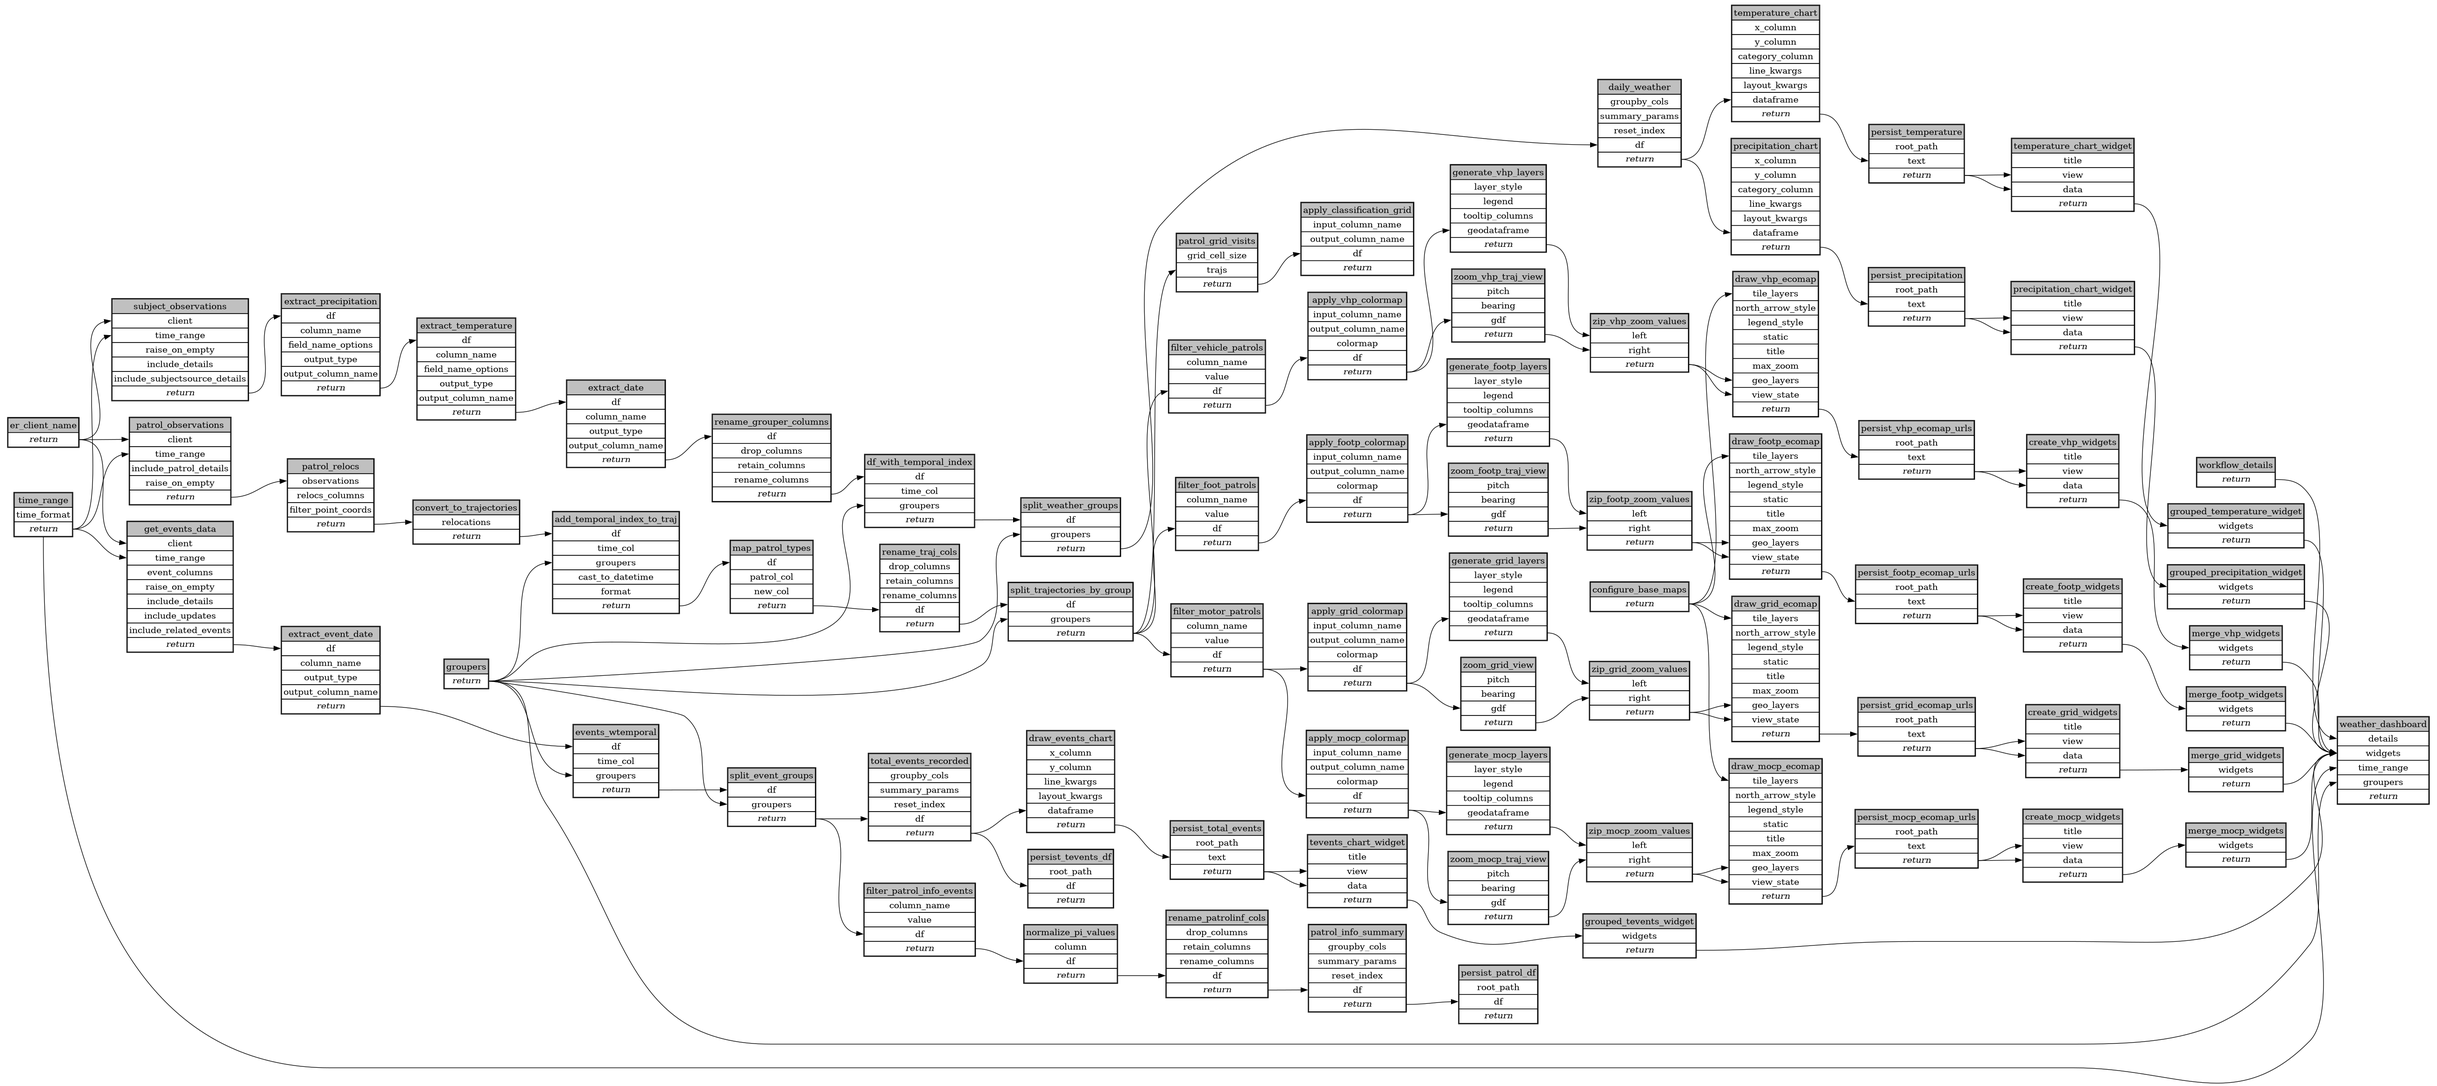
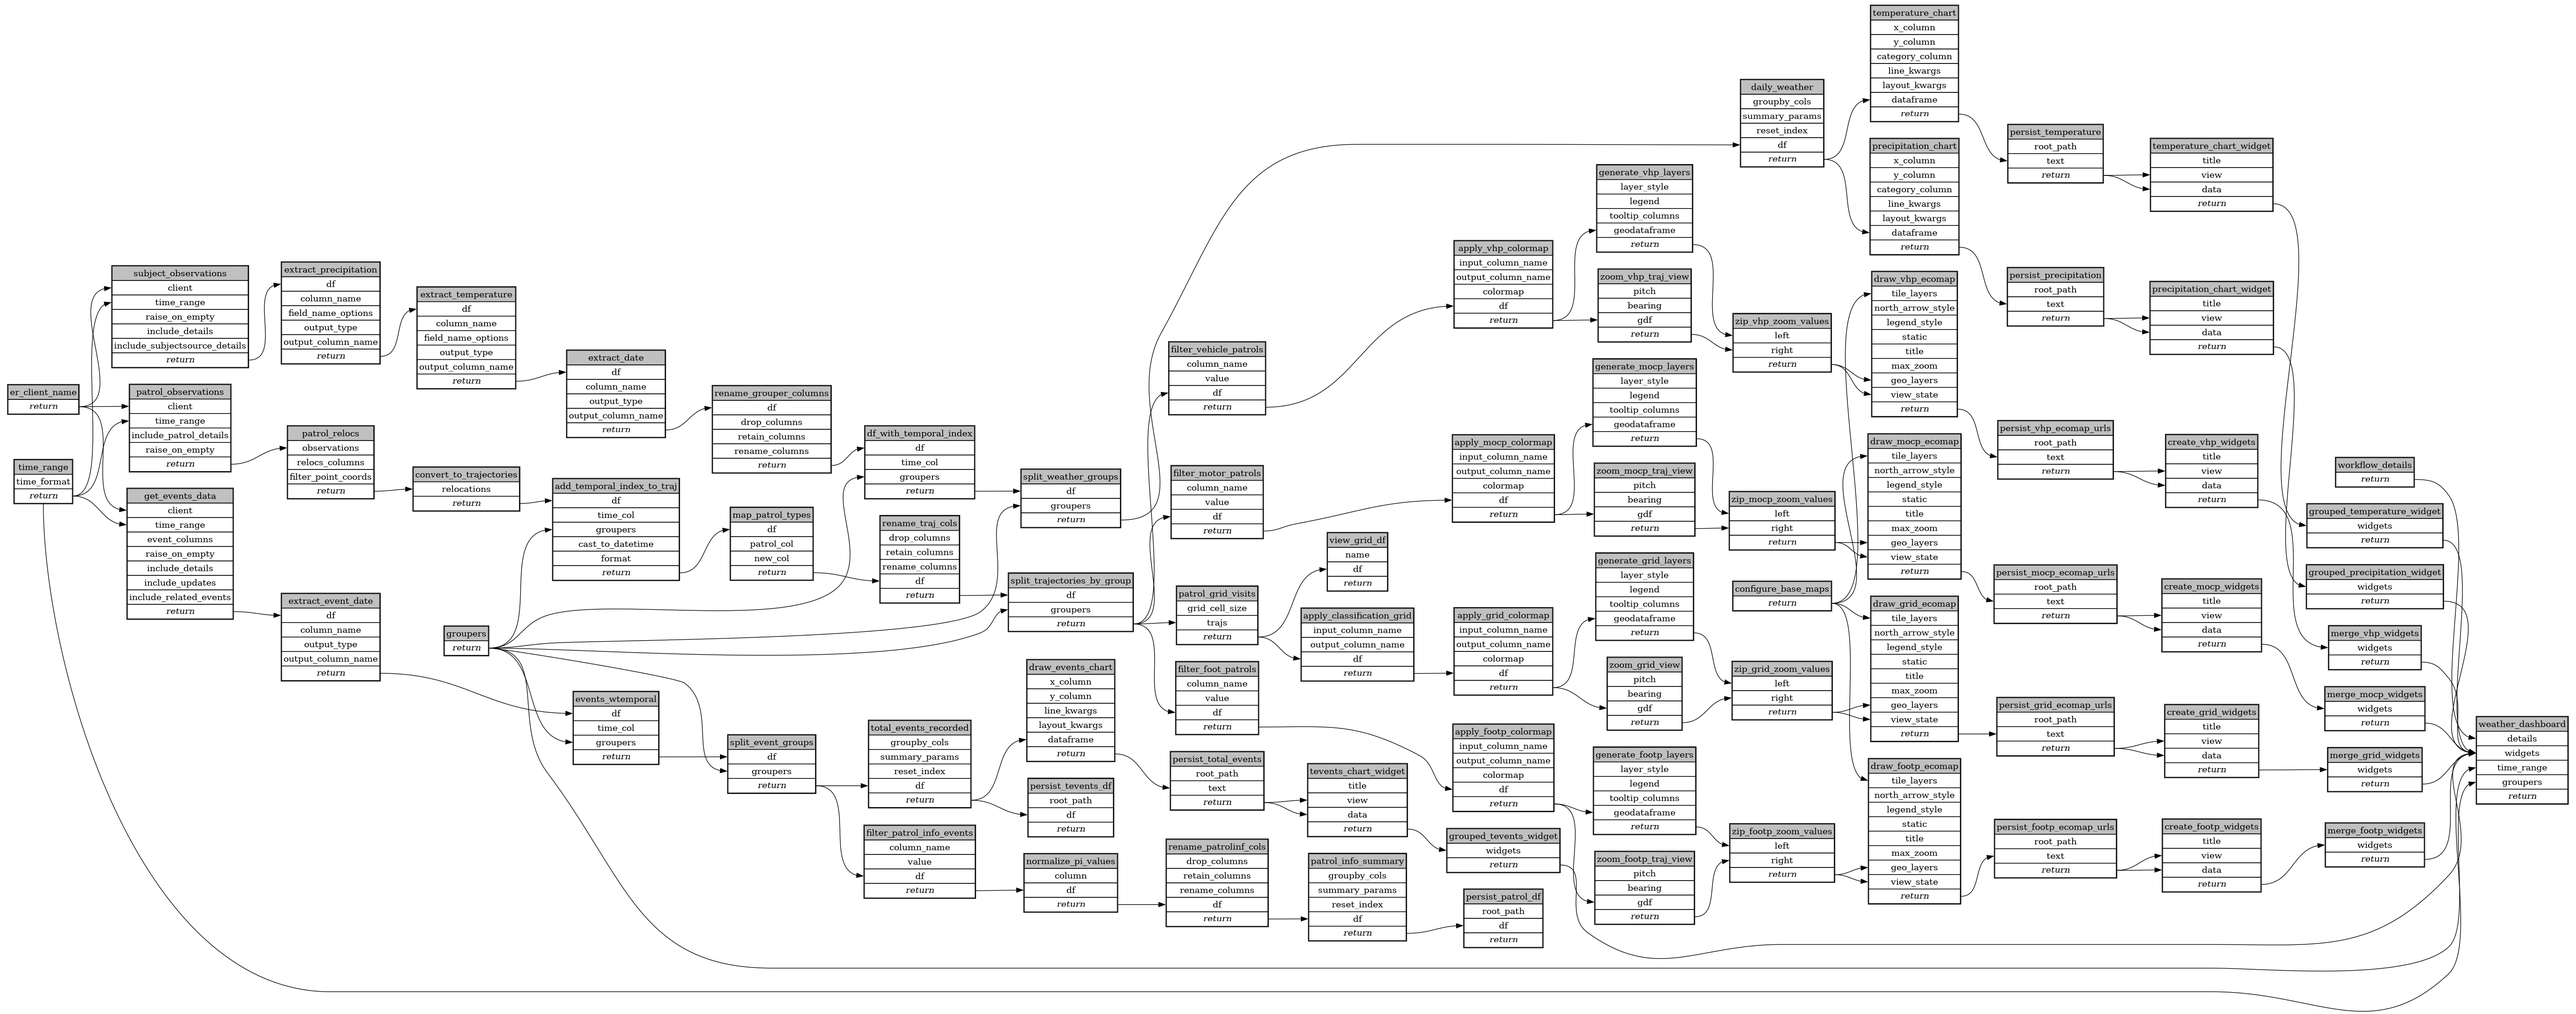
fix patrol visit grid cell df

Changed region(s): [[0.0, 0.0, 0.9992, 0.9867], [0.8743, 0.9867, 0.9368, 1.0]]

diff --git a/workflows/customized_report/ecoscope-workflows-customized-report-workflow/ecoscope_workflows_customized_report_workflow/dags/run_async.py b/workflows/customized_report/ecoscope-workflows-customized-report-workflow/ecoscope_workflows_customized_report_workflow/dags/run_async.py
@@ -52,6 +52,7 @@ from ecoscope_workflows_ext_mnc.tasks import (
     create_patrol_coverage_grid,
     create_view_state_from_gdf,
     filter_by_value,
+    view_df,
     zip_grouped_by_key,
 )
 
@@ -128,8 +129,9 @@ def main(params: Params):
         "create_mocp_widgets": ["persist_mocp_ecomap_urls"],
         "merge_mocp_widgets": ["create_mocp_widgets"],
         "patrol_grid_visits": ["split_trajectories_by_group"],
+        "view_grid_df": ["patrol_grid_visits"],
         "apply_classification_grid": ["patrol_grid_visits"],
-        "apply_grid_colormap": ["filter_motor_patrols"],
+        "apply_grid_colormap": ["apply_classification_grid"],
         "generate_grid_layers": ["apply_grid_colormap"],
         "zoom_grid_view": ["apply_grid_colormap"],
         "zip_grid_zoom_values": ["generate_grid_layers", "zoom_grid_view"],
@@ -1220,6 +1222,20 @@ def main(params: Params):
                 "argvalues": DependsOn("split_trajectories_by_group"),
             },
         ),
+        "view_grid_df": Node(
+            async_task=view_df.validate()
+            .handle_errors(task_instance_id="view_grid_df")
+            .set_executor("lithops"),
+            partial={
+                "name": "Patrol Grid gdf",
+            }
+            | (params_dict.get("view_grid_df") or {}),
+            method="mapvalues",
+            kwargs={
+                "argnames": ["df"],
+                "argvalues": DependsOn("patrol_grid_visits"),
+            },
+        ),
         "apply_classification_grid": Node(
             async_task=apply_classification.validate()
             .handle_errors(task_instance_id="apply_classification_grid")
@@ -1248,7 +1264,7 @@ def main(params: Params):
             method="mapvalues",
             kwargs={
                 "argnames": ["df"],
-                "argvalues": DependsOn("filter_motor_patrols"),
+                "argvalues": DependsOn("apply_classification_grid"),
             },
         ),
         "generate_grid_layers": Node(

diff --git a/workflows/customized_report/ecoscope-workflows-customized-report-workflow/ecoscope_workflows_customized_report_workflow/dags/run_async_mock_io.py b/workflows/customized_report/ecoscope-workflows-customized-report-workflow/ecoscope_workflows_customized_report_workflow/dags/run_async_mock_io.py
@@ -94,6 +94,7 @@ from ecoscope_workflows_ext_mnc.tasks import (
     create_patrol_coverage_grid,
     create_view_state_from_gdf,
     filter_by_value,
+    view_df,
     zip_grouped_by_key,
 )
 
@@ -172,8 +173,9 @@ def main(params: Params):
         "create_mocp_widgets": ["persist_mocp_ecomap_urls"],
         "merge_mocp_widgets": ["create_mocp_widgets"],
         "patrol_grid_visits": ["split_trajectories_by_group"],
+        "view_grid_df": ["patrol_grid_visits"],
         "apply_classification_grid": ["patrol_grid_visits"],
-        "apply_grid_colormap": ["filter_motor_patrols"],
+        "apply_grid_colormap": ["apply_classification_grid"],
         "generate_grid_layers": ["apply_grid_colormap"],
         "zoom_grid_view": ["apply_grid_colormap"],
         "zip_grid_zoom_values": ["generate_grid_layers", "zoom_grid_view"],
@@ -1264,6 +1266,20 @@ def main(params: Params):
                 "argvalues": DependsOn("split_trajectories_by_group"),
             },
         ),
+        "view_grid_df": Node(
+            async_task=view_df.validate()
+            .handle_errors(task_instance_id="view_grid_df")
+            .set_executor("lithops"),
+            partial={
+                "name": "Patrol Grid gdf",
+            }
+            | (params_dict.get("view_grid_df") or {}),
+            method="mapvalues",
+            kwargs={
+                "argnames": ["df"],
+                "argvalues": DependsOn("patrol_grid_visits"),
+            },
+        ),
         "apply_classification_grid": Node(
             async_task=apply_classification.validate()
             .handle_errors(task_instance_id="apply_classification_grid")
@@ -1292,7 +1308,7 @@ def main(params: Params):
             method="mapvalues",
             kwargs={
                 "argnames": ["df"],
-                "argvalues": DependsOn("filter_motor_patrols"),
+                "argvalues": DependsOn("apply_classification_grid"),
             },
         ),
         "generate_grid_layers": Node(

diff --git a/workflows/customized_report/ecoscope-workflows-customized-report-workflow/ecoscope_workflows_customized_report_workflow/dags/run_sequential_mock_io.py b/workflows/customized_report/ecoscope-workflows-customized-report-workflow/ecoscope_workflows_customized_report_workflow/dags/run_sequential_mock_io.py
@@ -93,6 +93,7 @@ from ecoscope_workflows_ext_mnc.tasks import (
     create_patrol_coverage_grid,
     create_view_state_from_gdf,
     filter_by_value,
+    view_df,
     zip_grouped_by_key,
 )
 
@@ -1011,6 +1012,13 @@ def main(params: Params):
         .mapvalues(argnames=["trajs"], argvalues=split_trajectories_by_group)
     )
 
+    view_grid_df = (
+        view_df.validate()
+        .handle_errors(task_instance_id="view_grid_df")
+        .partial(name="Patrol Grid gdf", **(params_dict.get("view_grid_df") or {}))
+        .mapvalues(argnames=["df"], argvalues=patrol_grid_visits)
+    )
+
     apply_classification_grid = (
         apply_classification.validate()
         .handle_errors(task_instance_id="apply_classification_grid")
@@ -1031,7 +1039,7 @@ def main(params: Params):
             colormap="Wistia",
             **(params_dict.get("apply_grid_colormap") or {}),
         )
-        .mapvalues(argnames=["df"], argvalues=filter_motor_patrols)
+        .mapvalues(argnames=["df"], argvalues=apply_classification_grid)
     )
 
     generate_grid_layers = (

diff --git a/workflows/customized_report/ecoscope-workflows-customized-report-workflow/ecoscope_workflows_customized_report_workflow/dags/run_sequential.py b/workflows/customized_report/ecoscope-workflows-customized-report-workflow/ecoscope_workflows_customized_report_workflow/dags/run_sequential.py
@@ -51,6 +51,7 @@ from ecoscope_workflows_ext_mnc.tasks import (
     create_patrol_coverage_grid,
     create_view_state_from_gdf,
     filter_by_value,
+    view_df,
     zip_grouped_by_key,
 )
 
@@ -967,6 +968,13 @@ def main(params: Params):
         .mapvalues(argnames=["trajs"], argvalues=split_trajectories_by_group)
     )
 
+    view_grid_df = (
+        view_df.validate()
+        .handle_errors(task_instance_id="view_grid_df")
+        .partial(name="Patrol Grid gdf", **(params_dict.get("view_grid_df") or {}))
+        .mapvalues(argnames=["df"], argvalues=patrol_grid_visits)
+    )
+
     apply_classification_grid = (
         apply_classification.validate()
         .handle_errors(task_instance_id="apply_classification_grid")
@@ -987,7 +995,7 @@ def main(params: Params):
             colormap="Wistia",
             **(params_dict.get("apply_grid_colormap") or {}),
         )
-        .mapvalues(argnames=["df"], argvalues=filter_motor_patrols)
+        .mapvalues(argnames=["df"], argvalues=apply_classification_grid)
     )
 
     generate_grid_layers = (

diff --git a/workflows/customized_report/ecoscope-workflows-customized-report-workflow/ecoscope_workflows_customized_report_workflow/formdata.py b/workflows/customized_report/ecoscope-workflows-customized-report-workflow/ecoscope_workflows_customized_report_workflow/formdata.py
@@ -4,7 +4,7 @@
 from __future__ import annotations
 
 from enum import Enum
-from typing import List, Literal, Optional, Union
+from typing import Any, List, Literal, Optional, Union
 
 from pydantic import (
     AwareDatetime,
@@ -306,6 +306,13 @@ class PatrolObservations(BaseModel):
     )
 
 
+class ViewGridDf(BaseModel):
+    model_config = ConfigDict(
+        extra="forbid",
+    )
+    gdf: Any = Field(..., description="A GeoDataFrame to inspect", title="Gdf")
+
+
 class PersistPatrolDf(BaseModel):
     model_config = ConfigDict(
         extra="forbid",
@@ -487,6 +494,9 @@ class FormData(BaseModel):
     )
     convert_to_trajectories: Optional[ConvertToTrajectories] = Field(
         None, title="Convert Relocations to Trajectories"
+    )
+    view_grid_df: Optional[ViewGridDf] = Field(
+        None, title="view patrol coverage grid df"
     )
     apply_classification_grid: Optional[ApplyClassificationGrid] = Field(
         None, title="Apply bin classification on grids"

diff --git a/workflows/customized_report/ecoscope-workflows-customized-report-workflow/ecoscope_workflows_customized_report_workflow/params.py b/workflows/customized_report/ecoscope-workflows-customized-report-workflow/ecoscope_workflows_customized_report_workflow/params.py
@@ -4,7 +4,7 @@
 from __future__ import annotations
 
 from enum import Enum
-from typing import List, Literal, Optional, Union
+from typing import Any, List, Literal, Optional, Union
 
 from pydantic import (
     AwareDatetime,
@@ -306,6 +306,13 @@ class PatrolObservations(BaseModel):
     )
 
 
+class ViewGridDf(BaseModel):
+    model_config = ConfigDict(
+        extra="forbid",
+    )
+    gdf: Any = Field(..., description="A GeoDataFrame to inspect", title="Gdf")
+
+
 class PersistPatrolDf(BaseModel):
     model_config = ConfigDict(
         extra="forbid",
@@ -487,6 +494,9 @@ class Params(BaseModel):
     )
     convert_to_trajectories: Optional[ConvertToTrajectories] = Field(
         None, title="Convert Relocations to Trajectories"
+    )
+    view_grid_df: Optional[ViewGridDf] = Field(
+        None, title="view patrol coverage grid df"
     )
     apply_classification_grid: Optional[ApplyClassificationGrid] = Field(
         None, title="Apply bin classification on grids"

diff --git a/workflows/customized_report/ecoscope-workflows-customized-report-workflow/ecoscope_workflows_customized_report_workflow/dags/jupytext.py b/workflows/customized_report/ecoscope-workflows-customized-report-workflow/ecoscope_workflows_customized_report_workflow/dags/jupytext.py
@@ -61,6 +61,7 @@ from ecoscope_workflows_ext_mnc.tasks import (
     create_patrol_coverage_grid,
     create_view_state_from_gdf,
     filter_by_value,
+    view_df,
     zip_grouped_by_key,
 )
 
@@ -1776,6 +1777,27 @@ patrol_grid_visits = (
 
 
 # %% [markdown]
+# ## view patrol coverage grid df
+
+# %%
+# parameters
+
+view_grid_df_params = dict(
+    gdf=...,
+)
+
+# %%
+# call the task
+
+
+view_grid_df = (
+    view_df.handle_errors(task_instance_id="view_grid_df")
+    .partial(name="Patrol Grid gdf", **view_grid_df_params)
+    .mapvalues(argnames=["df"], argvalues=patrol_grid_visits)
+)
+
+
+# %% [markdown]
 # ## Apply bin classification on grids
 
 # %%
@@ -1821,7 +1843,7 @@ apply_grid_colormap = (
         colormap="Wistia",
         **apply_grid_colormap_params,
     )
-    .mapvalues(argnames=["df"], argvalues=filter_motor_patrols)
+    .mapvalues(argnames=["df"], argvalues=apply_classification_grid)
 )
 
 

diff --git a/workflows/customized_report/ecoscope-workflows-customized-report-workflow/README.md b/workflows/customized_report/ecoscope-workflows-customized-report-workflow/README.md
@@ -5,8 +5,8 @@
 
 ```yaml
 # fingerprint:
-artifacts_sha256_basic: 7a4373fd4dbf5f6019cd2397c66d7fe15177716e137ac46cb6dcd4a6934067b5
-artifacts_sha256_strict: 68a3809d0d0daceb75749264c883c8a0f45f184ed86d10e7fc888bb7c9eb6842
+artifacts_sha256_basic: 169800c8243a43890f24af68b8c599e859ea71d51b70a53a66c871ac4859f9f0
+artifacts_sha256_strict: 1ce539d63d588a1a7565c04ce06f98edc876bdffba776e4028b1bff1dcd7b54b
 installed_requirements:
 - channel: https://repo.prefix.dev/ecoscope-workflows/
   name: ecoscope-workflows-core
@@ -16,9 +16,9 @@ installed_requirements:
   version: {version: ==0.0.5}
 - channel: file:///tmp/ecoscope-workflows-custom/release/artifacts/
   name: ecoscope-workflows-ext-mnc
-  version: {version: ==10000.dev13+g11ca3e2b.d20251022}
-params_sha256: 11dbf654def57fd42ac82302dde65a93d4488424dc81d2d2323ab09dd33dcd69
-spec_sha256: df20bd9e26eef26bd19487822cf07cd90f8d1d8009911755dfe142130a20179a
+  version: {version: ==10000.dev14+g7318e5c15.d20251022}
+params_sha256: da08aa80e95014e956e149a0a40461f51abfe4d7702087fb8db108068bff17b2
+spec_sha256: 4ea9f7aa8d8c86e699165093a411fd3550b133446f62410511fb3ab27dae40dc
 
 ```
 
